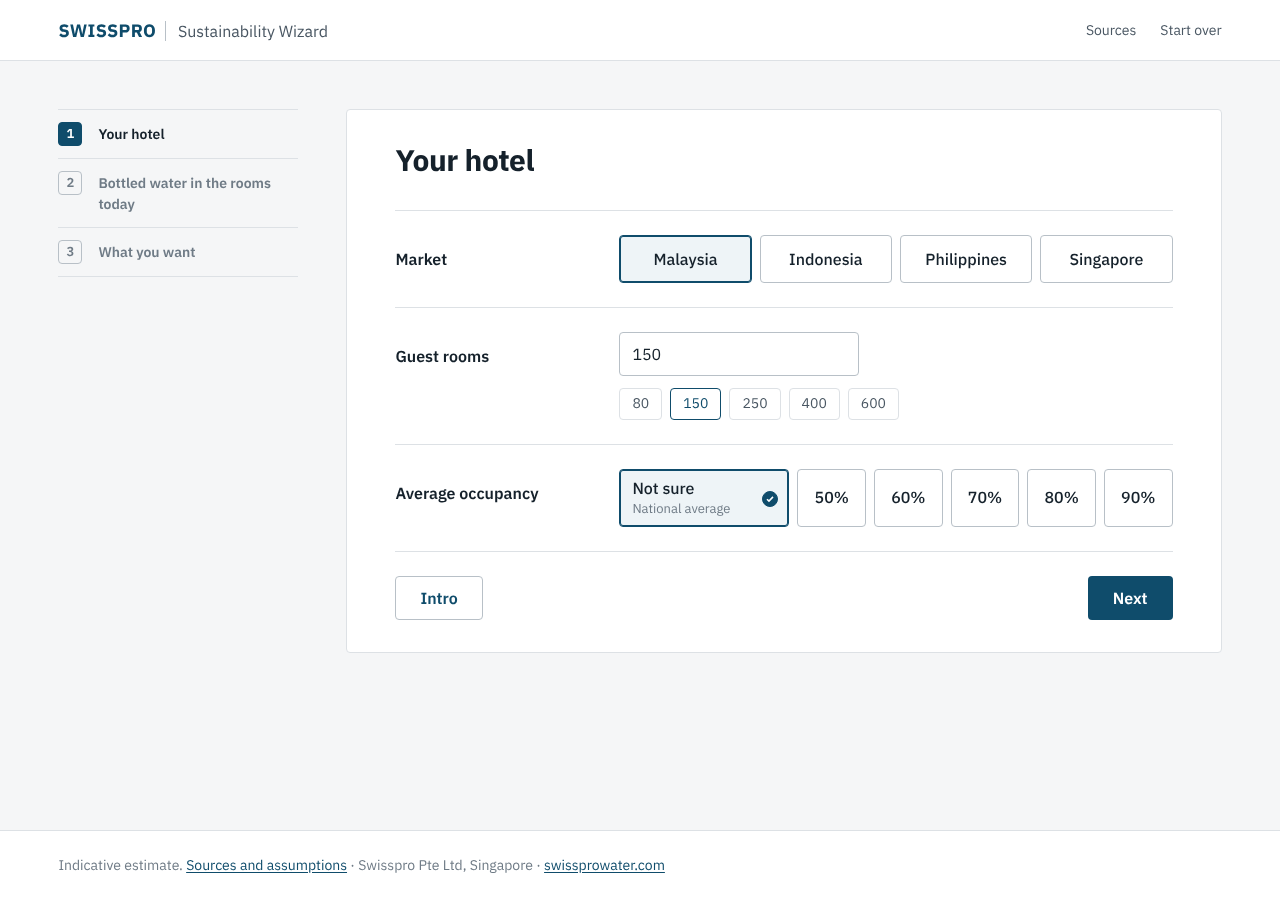
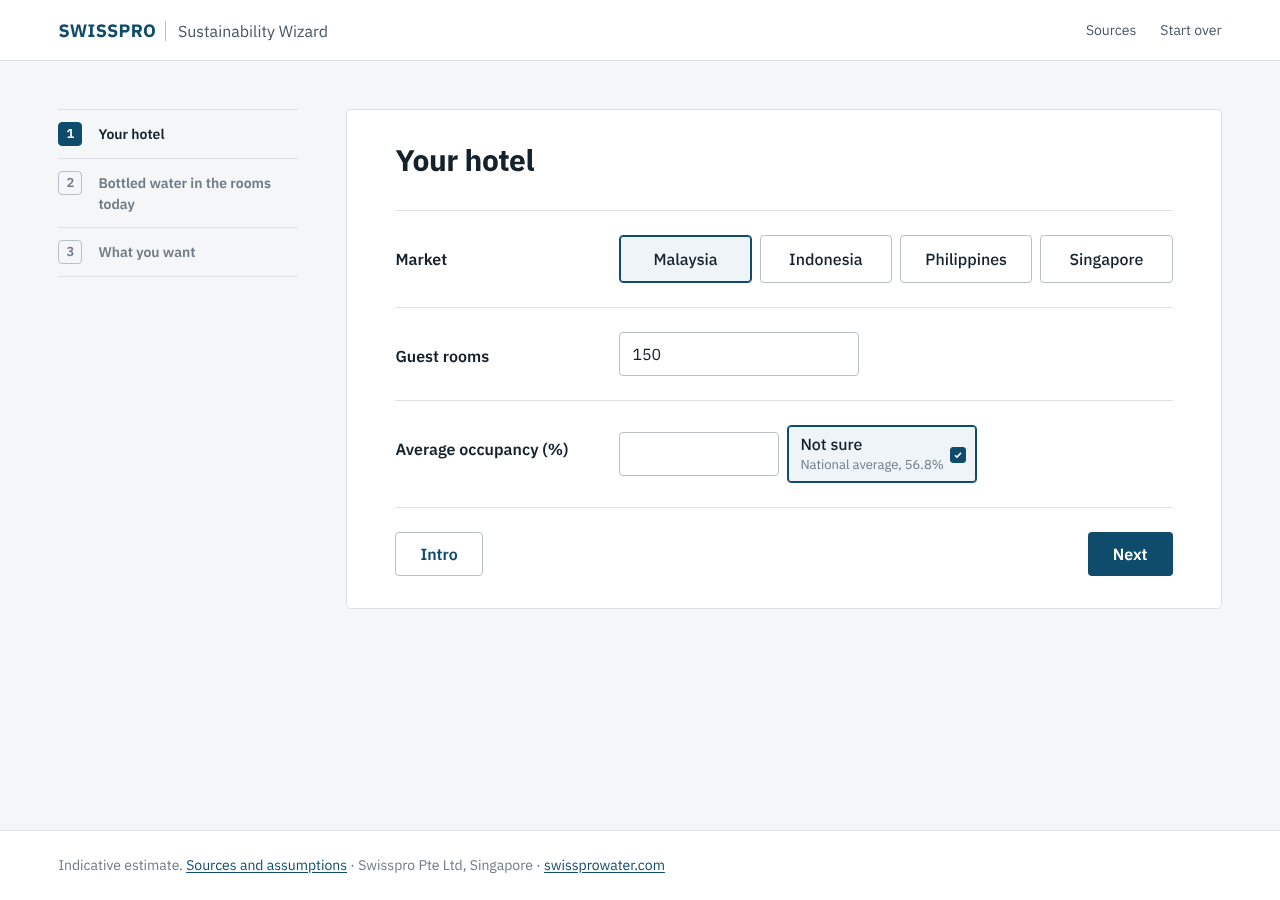
Exact hotel figures: no room presets, occupancy typed in percent with Not sure, Start again clears answers
Claude-Session: https://claude.ai/code/session_01APodsUFWSb661S1TCdvVpy

diff --git a/js/app.js b/js/app.js
@@ -48,7 +48,7 @@
         el('h1', { text: 'What does filtered water instead of bottled water mean for your hotel?' }),
         el('p', { class: 'lead', text: 'Answer nine questions about your rooms and the water you buy today. You see the bottles, plastic and CO2e avoided, what you spend now, the payback and the Swisspro set-up that fits.' }),
         el('div', { class: 'actions' },
-          el('button', { class: 'btn btn-primary btn-lg', type: 'button', onclick: function () { state.view = 'wizard'; state.step = 0; save(); render(); } }, resume ? 'Start again' : 'Start'),
+          el('button', { class: 'btn btn-primary btn-lg', type: 'button', onclick: function () { state.view = 'wizard'; state.step = 0; state.answers = {}; state.overrides = {}; save(); render(); } }, resume ? 'Start again' : 'Start'),
           resume ? el('button', { class: 'btn btn-secondary btn-lg', type: 'button', onclick: function () { state.view = 'wizard'; save(); render(); } }, 'Continue where I left off') : null)),
       el('dl', { class: 'hero-facts' },
         el('div', {}, el('dt', { text: 'Time' }), el('dd', { text: 'About one minute' })),
@@ -119,8 +119,16 @@
         wrap.appendChild(group);
       } else if (f.type === 'number' || f.type === 'text' || f.type === 'email') {
         var ctl = el('div', { class: 'field-control' }); wrap.appendChild(ctl);
-        ctl.appendChild(el('input', { class: 'input', type: f.type, id: 'in-' + f.id, placeholder: f.placeholder || '', value: a[f.id] != null ? a[f.id] : '', min: f.min, max: f.max, step: f.step, inputmode: f.type === 'number' ? 'decimal' : null, 'aria-labelledby': 'lbl-' + f.id,
-          oninput: function (e) { a[f.id] = e.target.value; save(); } }));
+        ctl.appendChild(el('input', { class: 'input', type: f.type, id: 'in-' + f.id, placeholder: f.placeholder || '', value: a[f.id] != null && a[f.id] !== 'default' ? (f.id === 'occupancy' && Number(a[f.id]) > 0 && Number(a[f.id]) <= 1 ? Math.round(Number(a[f.id]) * 1000) / 10 : a[f.id]) : '', min: f.min, max: f.max, step: f.step, inputmode: f.type === 'number' ? 'decimal' : null, 'aria-labelledby': 'lbl-' + f.id,
+          oninput: function (e) { var was = a[f.id]; a[f.id] = e.target.value; save(); if (was === 'default' && e.target.value !== '') { var b = e.target.parentNode.querySelector('[data-opt="default"]'); if (b) { b.classList.remove('selected'); b.setAttribute('aria-checked', 'false'); } } } }));
+        if (f.notSure) {
+          var ref = (F.countries[a.country] || F.countries.OTHER).occupancy.value;
+          var ns = el('button', { type: 'button', class: 'opt opt-inline' + (a[f.id] === 'default' ? ' selected' : ''), role: 'checkbox', 'aria-checked': a[f.id] === 'default' ? 'true' : 'false', 'data-opt': 'default',
+            onclick: function () { a[f.id] = a[f.id] === 'default' ? '' : 'default'; save(); renderStep(); } },
+            el('span', { class: 'opt-label', text: 'Not sure' }), el('span', { class: 'opt-desc', text: 'National average, ' + fmt.pct(ref) }));
+          ctl.classList.add('with-notsure');
+          ctl.appendChild(ns);
+        }
         if (f.chips) {
           var chips = el('div', { class: 'chips' });
           f.chips.forEach(function (c) { chips.appendChild(el('button', { type: 'button', class: 'chip' + (String(a[f.id]) === String(c) ? ' selected' : ''), onclick: function () { a[f.id] = String(c); save(); renderStep(); } }, String(c))); });
@@ -145,7 +153,7 @@
     step.fields.forEach(function (f) {
       if (f.showIf && !f.showIf(a)) return;
       var v = a[f.id]; if (v == null || v === '' || f.id === 'priceCustom') return;
-      if (f.type === 'number') { parts.push(v + ' ' + (f.id === 'rooms' ? 'rooms' : '')); return; }
+      if (f.type === 'number') { parts.push(f.id === 'rooms' ? v + ' rooms' : (f.id === 'occupancy' ? (v === 'default' ? 'occupancy not sure' : (Number(v) <= 1 ? Math.round(Number(v) * 100) : v) + '% occupancy') : v)); return; }
       var opts = fieldOptions(f);
       var ids = Array.isArray(v) ? v : [v];
       var labels = ids.map(function (id) { var o = opts.filter(function (x) { return x.id === id; })[0]; return o ? o.label : id; });
@@ -165,7 +173,8 @@
       if (f.type === 'multi' && f.required && !(a[f.id] && a[f.id].length)) msg = 'Please select at least one option.';
       if (f.type === 'number') {
         var v = Number(a[f.id]);
-        if (f.required && (a[f.id] == null || a[f.id] === '' || !isFinite(v))) msg = 'Please enter a number.';
+        if (f.notSure && a[f.id] === 'default') msg = '';
+        else if (f.required && (a[f.id] == null || a[f.id] === '' || !isFinite(v))) msg = f.notSure ? 'Please enter a number or choose Not sure.' : 'Please enter a number.';
         else if (a[f.id] !== '' && a[f.id] != null && isFinite(v) && ((f.min != null && v < f.min) || (f.max != null && v > f.max))) msg = 'Please enter a value between ' + f.min + ' and ' + f.max + '.';
       }
       var e = document.getElementById('err-' + f.id);

diff --git a/index.html b/index.html
@@ -5,7 +5,7 @@
   <meta name="viewport" content="width=device-width, initial-scale=1">
   <title>Swisspro Sustainability Wizard</title>
   <meta name="description" content="Find out what replacing bottled water with Swisspro filtered drinking water means for your hotel: bottles, plastic, cost, staff time, payback and the set-up that fits.">
-  <link rel="stylesheet" href="styles.css?v=2.5">
+  <link rel="stylesheet" href="styles.css?v=2.6">
   <link rel="icon" href="assets/favicon.svg" type="image/svg+xml">
 </head>
 <body>
@@ -32,14 +32,14 @@
     </div>
   </footer>
 
-  <script src="js/factors.js?v=2.5"></script>
-  <script src="js/engine.js?v=2.5"></script>
-  <script src="js/pricelist.js?v=2.5"></script>
-  <script src="js/questions.js?v=2.5"></script>
-  <script src="js/model.js?v=2.5"></script>
-  <script src="js/recommend.js?v=2.5"></script>
-  <script src="js/business.js?v=2.5"></script>
-  <script src="js/format.js?v=2.5"></script>
-  <script src="js/app.js?v=2.5"></script>
+  <script src="js/factors.js?v=2.6"></script>
+  <script src="js/engine.js?v=2.6"></script>
+  <script src="js/pricelist.js?v=2.6"></script>
+  <script src="js/questions.js?v=2.6"></script>
+  <script src="js/model.js?v=2.6"></script>
+  <script src="js/recommend.js?v=2.6"></script>
+  <script src="js/business.js?v=2.6"></script>
+  <script src="js/format.js?v=2.6"></script>
+  <script src="js/app.js?v=2.6"></script>
 </body>
 </html>

diff --git a/styles.css b/styles.css
@@ -118,6 +118,9 @@ button.rail-link:hover { text-decoration: underline; }
 .options-row:not(.lead-wide) .opt, .options-row.lead-wide .opt:not(:first-child) { padding-right: var(--s-3); align-items: center; text-align: center; }
 .options-row:not(.lead-wide) .opt::after, .options-row.lead-wide .opt:not(:first-child)::after { display: none; }
 .field-control { min-width: 0; }
+.field-control.with-notsure { display: flex; flex-wrap: wrap; gap: var(--s-2); align-items: center; }
+.field-control.with-notsure .input { flex: 0 1 160px; }
+.opt-inline { min-height: 44px; padding-top: 4px; padding-bottom: 4px; }
 .options-row .opt .opt-label { white-space: nowrap; padding-right: 0; }
 .options-wide { grid-template-columns: repeat(auto-fill, minmax(200px, 1fr)); }
 .opt { position: relative; hyphens: none; display: flex; flex-direction: column; justify-content: center; gap: 2px; min-height: 48px; text-align: left; background: var(--surface); border: 1px solid var(--line-strong); border-radius: var(--radius); padding: var(--s-2) var(--s-6) var(--s-2) var(--s-3); cursor: pointer; font: inherit; color: var(--ink); transition: border-color .12s, background .12s; }

diff --git a/js/questions.js b/js/questions.js
@@ -14,11 +14,8 @@
         { id: 'country', type: 'single', label: 'Market', required: true, options: [
           { id: 'MY', label: 'Malaysia' }, { id: 'ID', label: 'Indonesia' }, { id: 'PH', label: 'Philippines' }, { id: 'SG', label: 'Singapore' }
         ] },
-        { id: 'rooms', type: 'number', label: 'Guest rooms', required: true, min: 1, max: 5000, chips: [80, 150, 250, 400, 600], placeholder: 'e.g. 250' },
-        { id: 'occupancy', type: 'single', label: 'Average occupancy', required: true, options: [
-          { id: 'default', label: 'Not sure', desc: 'National average' },
-          { id: '0.5', label: '50%' }, { id: '0.6', label: '60%' }, { id: '0.7', label: '70%' }, { id: '0.8', label: '80%' }, { id: '0.9', label: '90%' }
-        ] }
+        { id: 'rooms', type: 'number', label: 'Guest rooms', required: true, min: 1, max: 5000 },
+        { id: 'occupancy', type: 'number', label: 'Average occupancy (%)', required: true, min: 1, max: 100, step: 0.1, notSure: true }
       ]
     },
     {

diff --git a/test/model.test.js b/test/model.test.js
@@ -91,3 +91,10 @@ test('register integrity: kinds, statuses, URLs, rules, assumption notes', () =>
   assert.deepEqual(F.marketOrder.slice(0, 3), ['MY', 'ID', 'PH']);
   assert.ok(F.rules.occupancy && F.rules.wage && F.rules.fx && F.rules.co2Pet);
 });
+
+test('occupancy is typed in percent; "default" uses the national figure; older fractions still read', () => {
+  const base = { country: 'MY', rooms: '100', current: 'pet_free', bottlesPerRoomNight: '2', bottleSizeMl: '500', priceBand: 'unknown', areas: ['rooms'], temps: 'ambient' };
+  assert.equal(M.normalise(F, Object.assign({}, base, { occupancy: '72.5' }), {}).inputs.occupancy, 0.725);
+  assert.equal(M.normalise(F, Object.assign({}, base, { occupancy: '0.7' }), {}).inputs.occupancy, 0.7);
+  assert.equal(M.normalise(F, Object.assign({}, base, { occupancy: 'default' }), {}).inputs.occupancy, F.countries.MY.occupancy.value);
+});

diff --git a/sources.html b/sources.html
@@ -4,7 +4,7 @@
   <meta charset="utf-8">
   <meta name="viewport" content="width=device-width, initial-scale=1">
   <title>Sources and assumptions - Swisspro Sustainability Wizard</title>
-  <link rel="stylesheet" href="styles.css?v=2.5">
+  <link rel="stylesheet" href="styles.css?v=2.6">
   <link rel="icon" href="assets/favicon.svg" type="image/svg+xml">
 </head>
 <body>
@@ -25,8 +25,8 @@
     <section class="card" id="swisspro"></section>
   </main>
   <footer class="site-footer"><div class="wrap"><p class="muted">Swisspro Pte Ltd, Singapore.</p></div></footer>
-  <script src="js/factors.js?v=2.5"></script>
-  <script src="js/pricelist.js?v=2.5"></script>
+  <script src="js/factors.js?v=2.6"></script>
+  <script src="js/pricelist.js?v=2.6"></script>
   <script>
   (function () {
     var F = window.SW.factors, PL = window.SW.pricelist;

diff --git a/js/model.js b/js/model.js
@@ -36,7 +36,7 @@
 
     var occupancy;
     if (overrides.occupancy != null) { occupancy = num(overrides.occupancy, c.occupancy.value); prov.occupancy = { kind: 'user', label: 'Adjusted by you' }; }
-    else if (a.occupancy && a.occupancy !== 'default') { occupancy = num(a.occupancy, c.occupancy.value); prov.occupancy = { kind: 'user', label: 'Your answer' }; }
+    else if (a.occupancy != null && a.occupancy !== '' && a.occupancy !== 'default' && isFinite(Number(a.occupancy))) { occupancy = Number(a.occupancy) > 1 ? Number(a.occupancy) / 100 : Number(a.occupancy); prov.occupancy = { kind: 'user', label: 'Your answer' }; } // percent (since 2.6) or fraction (older saved answers)
     else { occupancy = c.occupancy.value; prov.occupancy = tagOf(c.occupancy, c.name + ' reference'); }
 
     var bpn;

diff --git a/tools/walkthrough.js b/tools/walkthrough.js
@@ -57,6 +57,7 @@ const scenarios = {
           const val = answers[f];
           if (val == null || f.startsWith('_')) continue;
           const input = await page.$(`#in-${f}`);
+          if (input && val === 'default') { await page.click(`[data-field="${f}"] [data-opt="default"]`); await page.waitForTimeout(60); continue; }
           if (input) { await input.fill(String(val)); continue; }
           const ids = Array.isArray(val) ? val : [val];
           for (const id of ids) {

diff --git a/tools/benchmark.js b/tools/benchmark.js
@@ -36,6 +36,7 @@ const SECONDS_PER_TYPED = 10;   // typing a number the hotel knows (rooms)
   await click('.hero .btn-primary');
   await click('[data-field="country"] [data-opt="MY"]');
   await page.fill('#in-rooms', '150'); typed++;
+  await click('[data-field="occupancy"] [data-opt="default"]');
   await next();
   step1Blocked = await page.$('[data-field="occupancy"] .error:not([hidden])');
   await click('[data-field="current"] [data-opt="pet_free"]');
